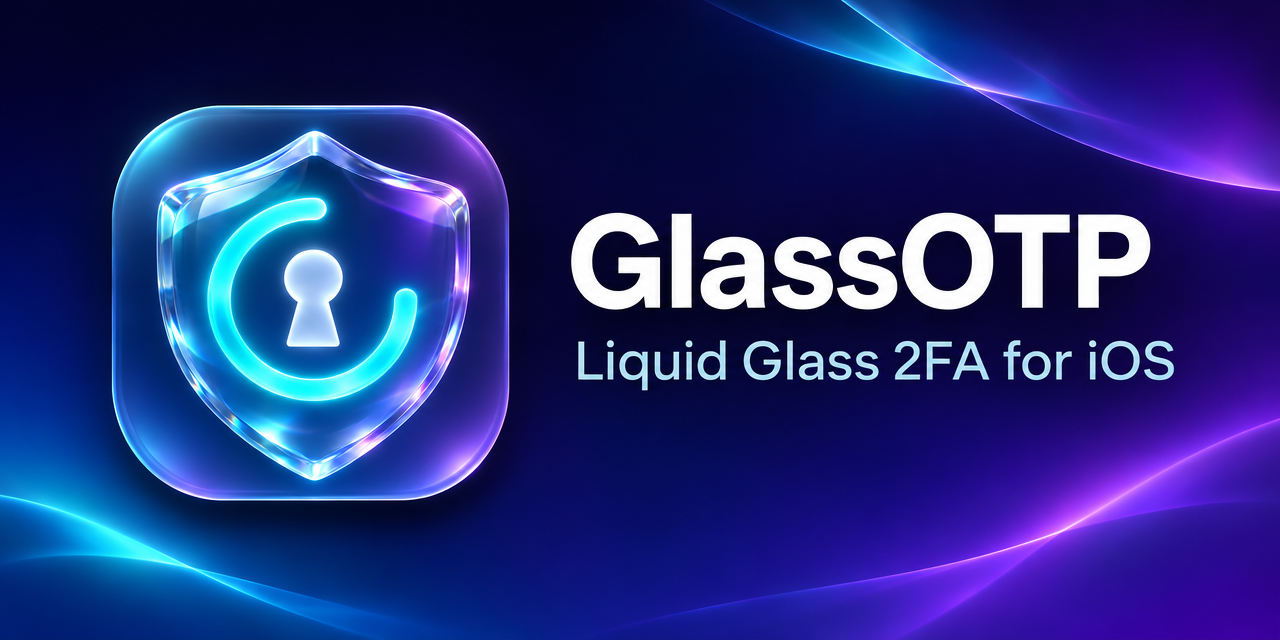
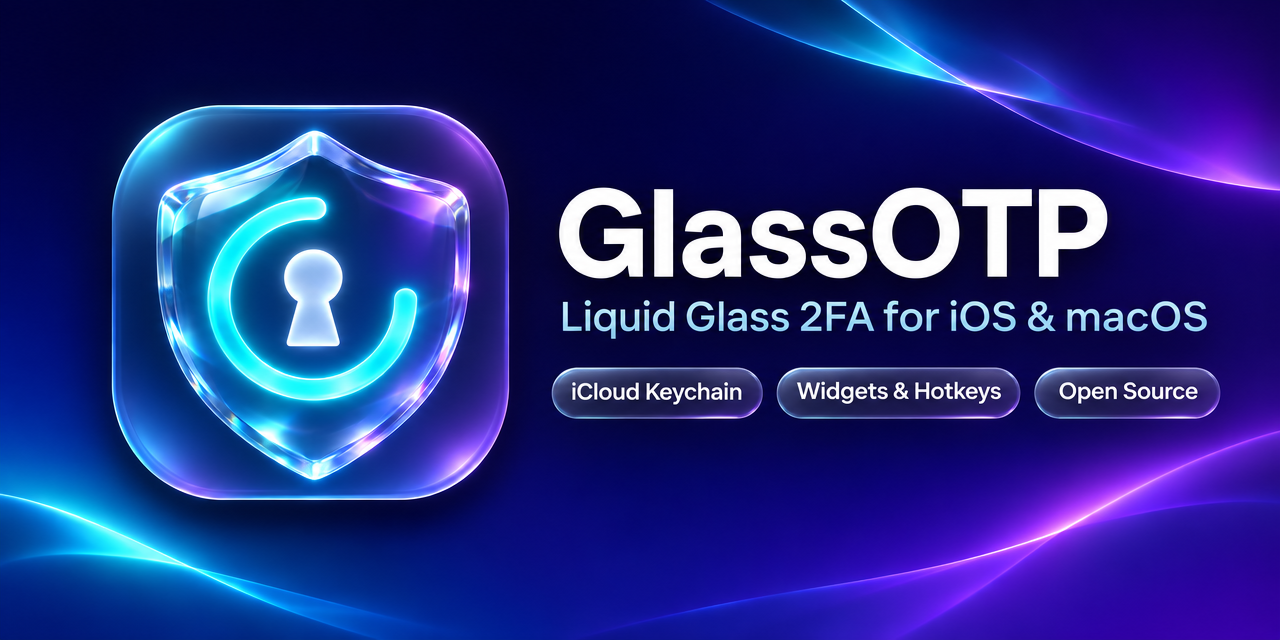
docs: update social preview, add UI screenshots, and highlight 1-keystroke auto-type (#5)
* docs(assets): update GitHub social preview for iOS and macOS

* docs(readme): add iOS/macOS screenshots and highlight 1-keystroke auto-type

diff --git a/README.md b/README.md
@@ -2,7 +2,31 @@
 
 ![GlassOTP](assets/github-social-preview.png)
 
-GlassOTP is an open-source, native iOS 26+ and macOS 26+ two-factor authenticator (TOTP/HOTP) with Liquid Glass UI, interactive Home and Lock Screen widgets, 1-keystroke macOS menu bar shortcuts, iCloud Keychain sync, and on-device multi-provider backup import.
+GlassOTP is an open-source, native iOS 26+ and macOS 26+ two-factor authenticator (TOTP/HOTP) with Liquid Glass UI, 1-keystroke global macOS auto-type, interactive Home and Lock Screen widgets, iCloud Keychain sync, and on-device multi-provider backup import.
+
+## 1-Keystroke Auto-Type on macOS
+
+Bind your daily OTP accounts to direct global shortcuts (`⌃⌥1`–`⌃⌥9` or any custom shortcut) and enable **Auto-Type Digits on Direct Shortcut** (with macOS Accessibility permission) so 2FA prompts take a single keystroke from any browser, terminal, or VPN client:
+
+1. Press your account's global shortcut without leaving the focused login input.
+2. GlassOTP reserves/computes the live code, waits for modifier keys to release, verifies that the captured frontmost app (`postToPid`) is still active, and enters the OTP digits directly into the field while copying the code to a 60-second auto-clearing clipboard (`ConcealedType` / `TransientType`).
+3. A floating **`Typed & Copied`** confirmation HUD confirms delivery with zero window switching, phone unlocking, or `⌘V`.
+
+Press `⌃⌥Space` anytime to open the floating Spotlight-style vault popover and copy any account with `Return` or `⌘1`–`⌘9`.
+
+## Screenshots
+
+### macOS Menu Bar & 1-Keystroke Auto-Type
+
+| Quick Search & Direct Shortcut Badges (`⌃⌥1`–`⌃⌥3`) | 1-Keystroke Shortcuts, Auto-Type & `Typed & Copied` HUD |
+|---|---|
+| <img src="assets/screenshot-macos-popover.png" alt="GlassOTP macOS menu bar popover with direct shortcut badges" width="380"> | <img src="assets/screenshot-macos-autotype.png" alt="GlassOTP macOS 1-keystroke daily shortcuts, auto-type settings, and Typed and Copied HUD" width="380"> |
+
+### iOS Liquid Glass Vault (Dark & Light)
+
+| Dark Mode | Light Mode |
+|---|---|
+| <img src="assets/screenshot-ios-dark.png" alt="GlassOTP iOS vault in Dark Mode" width="280"> | <img src="assets/screenshot-ios-light.png" alt="GlassOTP iOS vault in Light Mode" width="280"> |
 
 ## Quickstart
 
@@ -85,9 +109,8 @@ All exports are parsed and decrypted on-device. Unencrypted exports skip passwor
 
 | Shortcut / Feature | Behavior |
 |---|---|
+| `Ctrl+Option+1`..`9` (`⌃⌥1`-`⌃⌥9`) or custom shortcut + Auto-Type | Copies a bound account's current OTP in one keystroke from any app, verifies the frontmost target app (`postToPid`), waits for modifier keys to release, and types the digits directly into the focused input field when **Auto-Type Digits on Direct Shortcut** and macOS Accessibility permission are enabled, showing a `Typed & Copied` confirmation HUD. |
 | `Ctrl+Option+Space` (`⌃⌥Space`) | Opens the floating quick-search panel from any app. Press `Return` to copy the top match or `Cmd+1` through `Cmd+9` (`⌘1`-`⌘9`) for rows 1-9. |
-| `Ctrl+Option+1`..`9` (`⌃⌥1`-`⌃⌥9`) or custom shortcut | Copies a bound account's current OTP in one keystroke from any app and displays a brief confirmation HUD. |
-| Auto-Type on Direct Shortcut (optional) | Types the OTP digits into the focused input field once modifier keys are released (requires macOS Accessibility permission). |
 | Live Menu Bar Code (optional) | Displays one pinned account's current OTP and countdown directly in the macOS menu bar. |
 
 `GlassOTP` and `GlassOTPMac` share the Keychain access group `$(AppIdentifierPrefix)com.robinvivant.glassotp.shared`, so accounts sync between iPhone and Mac when signed with the same Apple Developer Team and Apple Account (with iCloud Keychain enabled).
